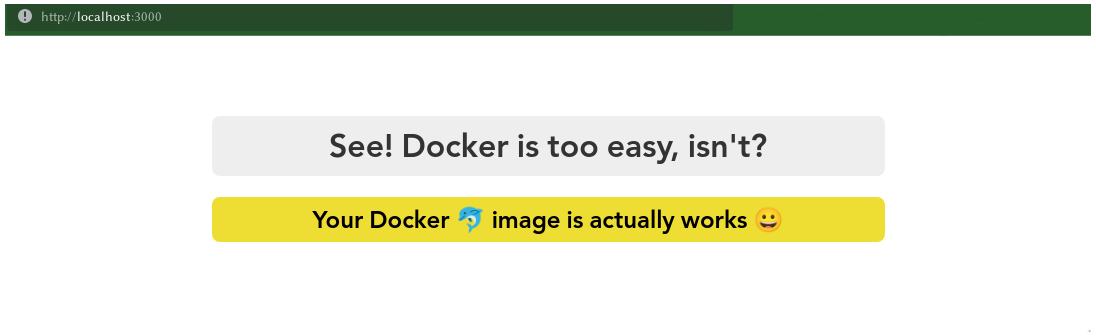
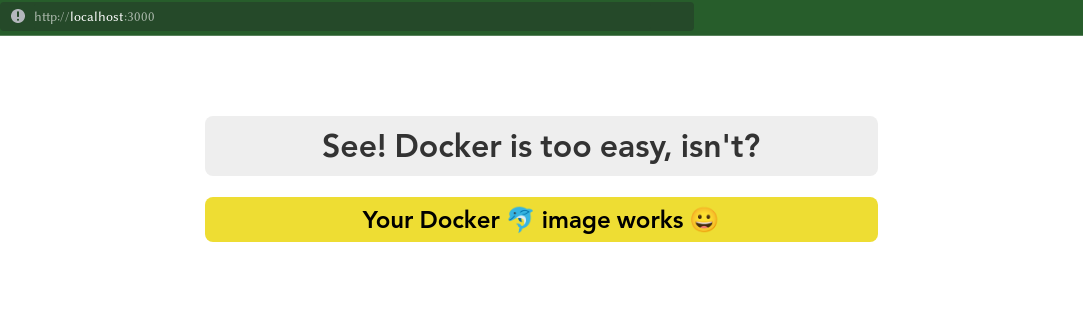
Fix typo

Changed region(s): [[0.1828, 0.5846, 0.8227, 0.7692], [0.0, 0.0, 1.0, 0.1231], [0.2742, 0.4, 0.7008, 0.4923]]

diff --git a/app.js b/app.js
@@ -23,7 +23,7 @@ app.get('/', (req, res) => {
     margin-top: 1rem;
     margin-left: auto;
     margin-right: auto;"
-		>Your Docker 🐬 image is actually works 😀</h2>
+		>Your Docker 🐬 image works 😀</h2>
 	`)
 })
 
